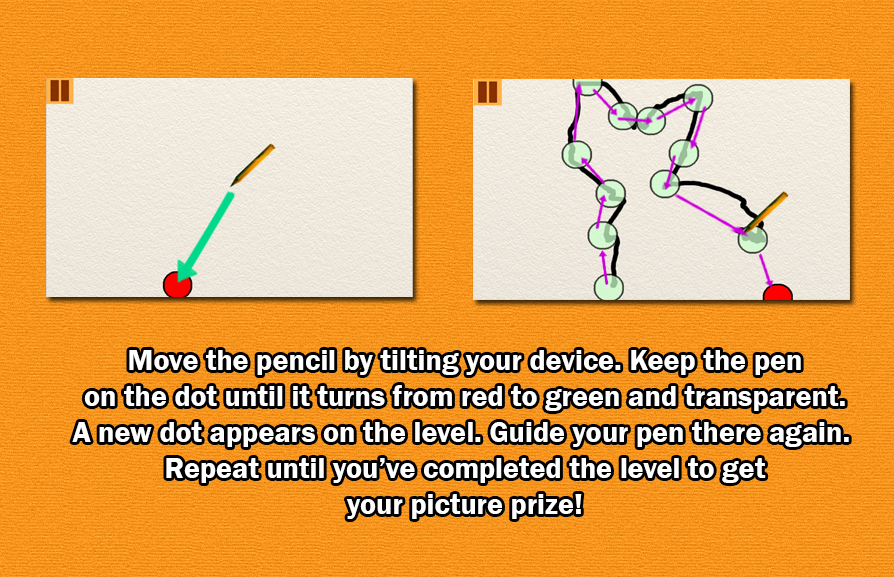
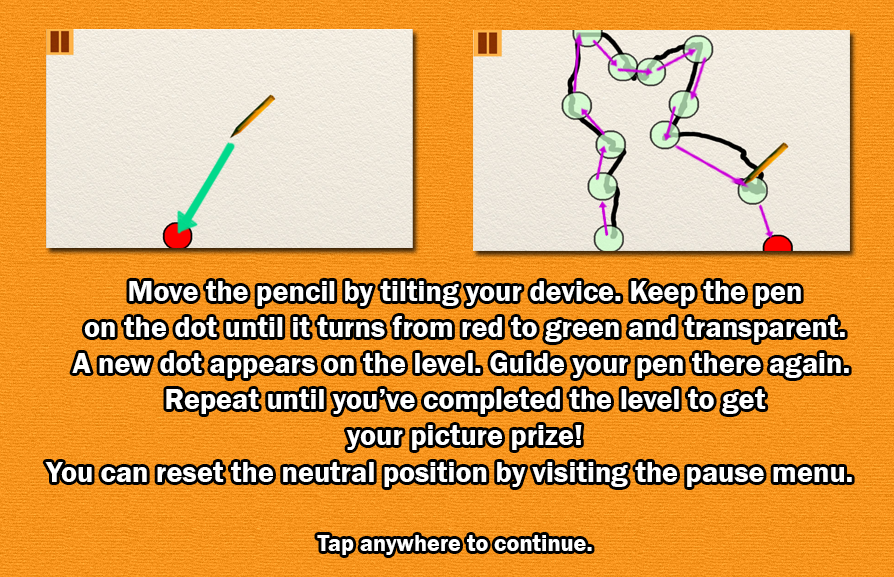
Tutorial added.

diff --git a/core/src/fi/tamk/tiko/piirus/Level.java b/core/src/fi/tamk/tiko/piirus/Level.java
@@ -48,11 +48,17 @@ public class Level extends GestureDetector.GestureAdapter implements Screen {
     private Texture pauseBg;
     private Texture pauseFill;
     private Texture pauseButtonTexture;
+    private Texture tutorialButtonTexture;
+    private Texture tutorialEnTexture;
+    private Texture tutorialFiTexture;
+
     //rectangles
     private Rectangle penRectangle;
     private Rectangle pauseMenuRectangle;
     private Rectangle pauseContinue;
     private Rectangle pauseBack;
+    private Rectangle tutorialRect;
+    private Rectangle showTutoRect;
 
     private Float penSize = 0.1f;
     private Float finishedTimer;
@@ -68,6 +74,7 @@ public class Level extends GestureDetector.GestureAdapter implements Screen {
     private boolean newRecord;
     private boolean pausedWithBack;
     private boolean scoreCounted;
+    private boolean showTutorial;
 
     private static int dotsCleared = 0;
     private int dotSoundsPlayed;
@@ -119,11 +126,18 @@ public class Level extends GestureDetector.GestureAdapter implements Screen {
         levelbg = new Texture(Gdx.files.internal("levelbg.png"));
         pauseBg = new Texture(Gdx.files.internal("pauseBg.png"));
         pauseFill = new Texture(Gdx.files.internal("pauseFill.png"));
+        tutorialButtonTexture = new Texture(Gdx.files.internal("tutorialButton.png"), true);
+        tutorialEnTexture = new Texture(Gdx.files.internal("tutorialPicEn.png"), true);
+        tutorialEnTexture.setFilter(Texture.TextureFilter.MipMapLinearLinear, Texture.TextureFilter.Linear);
+        tutorialFiTexture = new Texture(Gdx.files.internal("tutorialPicFi.png"), true);
+        tutorialFiTexture.setFilter(Texture.TextureFilter.MipMapLinearLinear, Texture.TextureFilter.Linear);
 
         penRectangle = new Rectangle(game.WORLD_WIDTH / 2, game.WORLD_HEIGHT / 2, 0.1f, 0.1f);
         pauseMenuRectangle = new Rectangle(0, game.WORLD_HEIGHT - 0.6f, 0.6f, 0.6f);
+        tutorialRect = new Rectangle(0, game.WORLD_HEIGHT - 1.22f, 0.6f, 0.6f);
         pauseContinue = new Rectangle(4.3f, 1.3f, 2.5f, 0.63f);
         pauseBack = new Rectangle(1.16f, 1.3f, 2.5f, 0.63f);
+        showTutoRect = new Rectangle(0,0, game.WORLD_WIDTH, game.WORLD_HEIGHT);
 
         penDots = new ArrayList<Rectangle>();
 
@@ -131,6 +145,8 @@ public class Level extends GestureDetector.GestureAdapter implements Screen {
         pausedWithBack = false;
         newRecord = false;
         scoreCounted = false;
+        showTutorial = false;
+
         finishedTimer = 0f;
         tapToContinueHeight = 0f;
         dotSoundsPlayed = 0;
@@ -243,6 +259,15 @@ public class Level extends GestureDetector.GestureAdapter implements Screen {
             }
         }
         batch.draw(pauseButtonTexture, pauseMenuRectangle.x, pauseMenuRectangle.y, pauseMenuRectangle.width, pauseMenuRectangle.height);
+        batch.draw(tutorialButtonTexture, tutorialRect.x, tutorialRect.y, tutorialRect.width, tutorialRect.height);
+        //draws the tutorial picture
+        if(showTutorial == true) {
+            if(game.getMyBundle().get("language").equalsIgnoreCase("fi")) {
+                batch.draw(tutorialFiTexture, showTutoRect.x, showTutoRect.y, showTutoRect.width, showTutoRect.height);
+            } else {
+                batch.draw(tutorialEnTexture, showTutoRect.x, showTutoRect.y, showTutoRect.width, showTutoRect.height);
+            }
+        }
         if (paused) {
             if(Gdx.input.isKeyJustPressed(Input.Keys.BACK) && !pausedWithBack){
                 dotsCleared = 0;
@@ -314,6 +339,9 @@ public class Level extends GestureDetector.GestureAdapter implements Screen {
         pauseButtonTexture.dispose();
         buttonPressedTexture.dispose();
         buttonTexture.dispose();
+        tutorialButtonTexture.dispose();
+        tutorialEnTexture.dispose();
+        tutorialFiTexture.dispose();
     }
 
     /**
@@ -350,6 +378,17 @@ public class Level extends GestureDetector.GestureAdapter implements Screen {
             if(game.sounds)
                 game.buttonSound.play(game.effectVolume);
             paused = true;
+        }
+         if (showTutoRect.contains(touchPos.x, touchPos.y)) {
+            showTutorial = false;
+            showTutoRect.y = 10f;
+         }
+        if (tutorialRect.contains(touchPos.x, touchPos.y) && !paused) {
+            if(game.sounds) {
+                game.buttonSound.play(game.effectVolume);
+            }
+            showTutorial = true;
+            showTutoRect.y = 0;
         }
         if (pauseContinue.contains(touchPos.x, touchPos.y) && paused) {
             if(game.sounds)
@@ -389,7 +428,7 @@ public class Level extends GestureDetector.GestureAdapter implements Screen {
         }
         if (finishedTimer > 0.5f && finishedTimer < 59)
             finishedTimer = 60f;
-        Gdx.app.log("TouchPos", "X:" + (touchPos.x / 8) + "||||||Y:" + (touchPos.y / 5));
+        //Gdx.app.log("TouchPos", "X:" + (touchPos.x / 8) + "||||||Y:" + (touchPos.y / 5));
         return false;
     }
 
@@ -439,6 +478,7 @@ public class Level extends GestureDetector.GestureAdapter implements Screen {
                 }
                 bestTime = bestTimes.getFloat("one");
                 finishPic = new Texture("levels/bread.png");
+                showTutorial = true;
                 break;
             case 2:
                 LevelTwo objectTwo = new LevelTwo(game);
